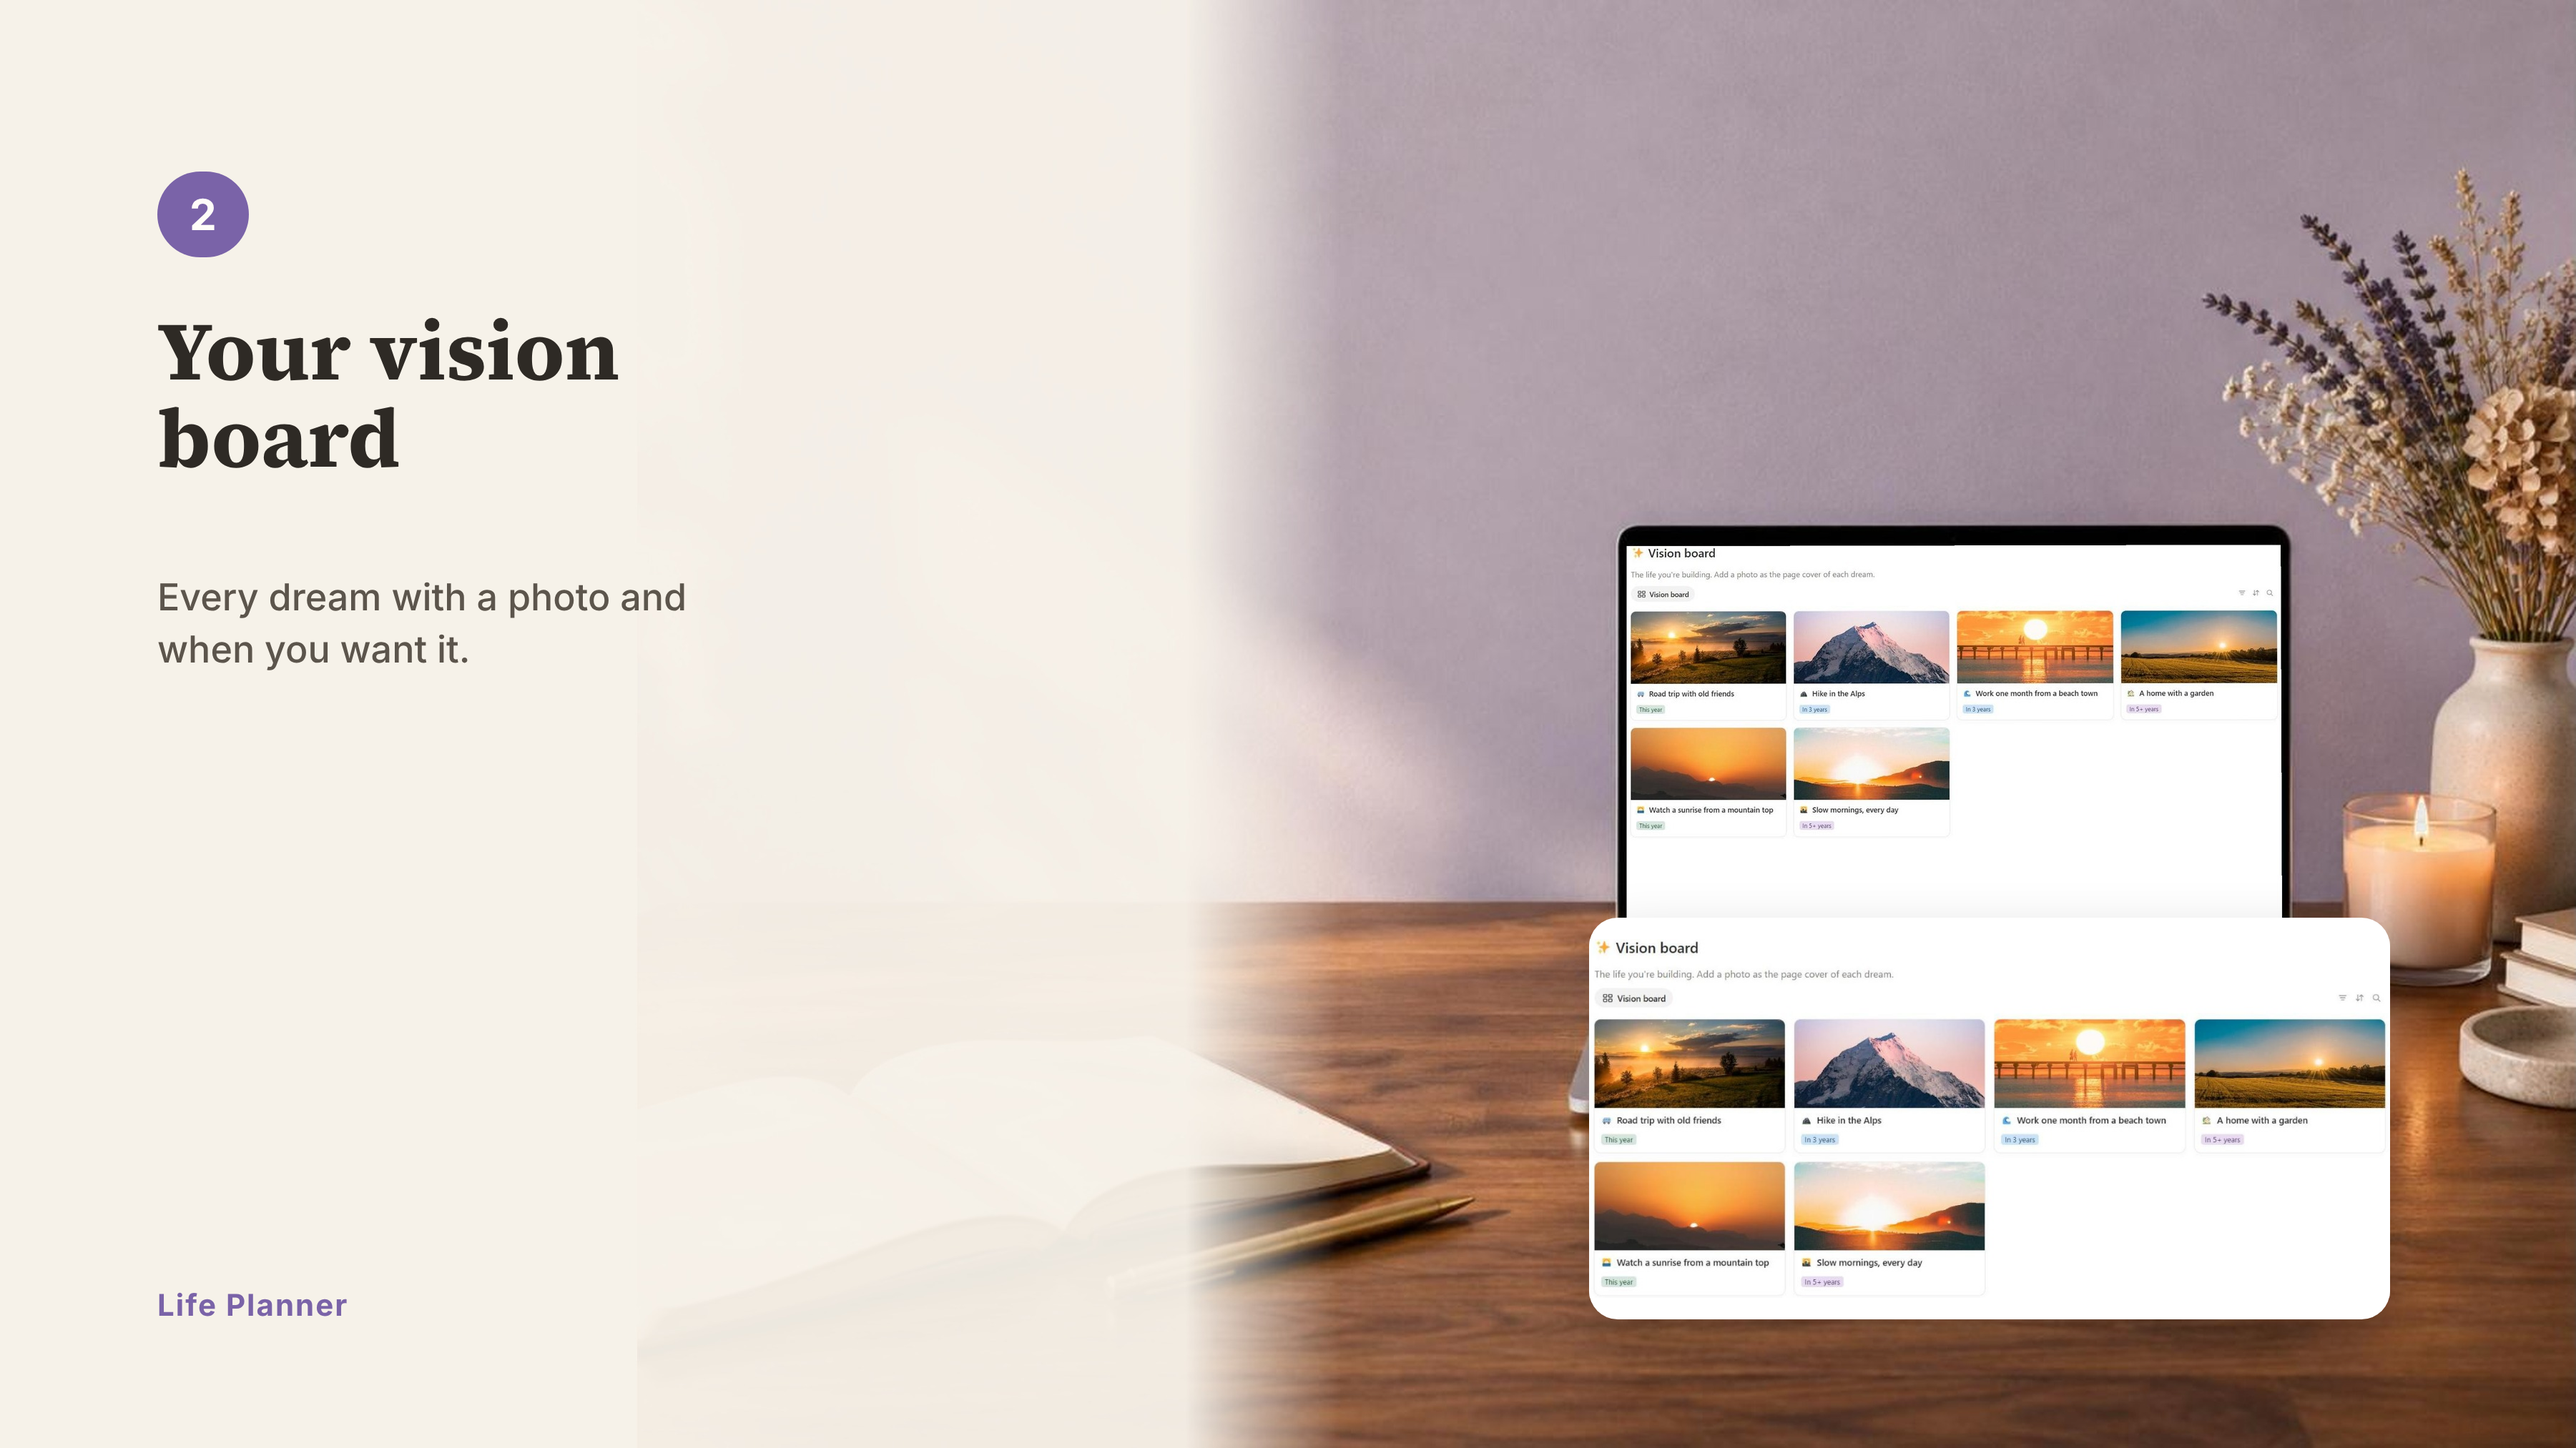
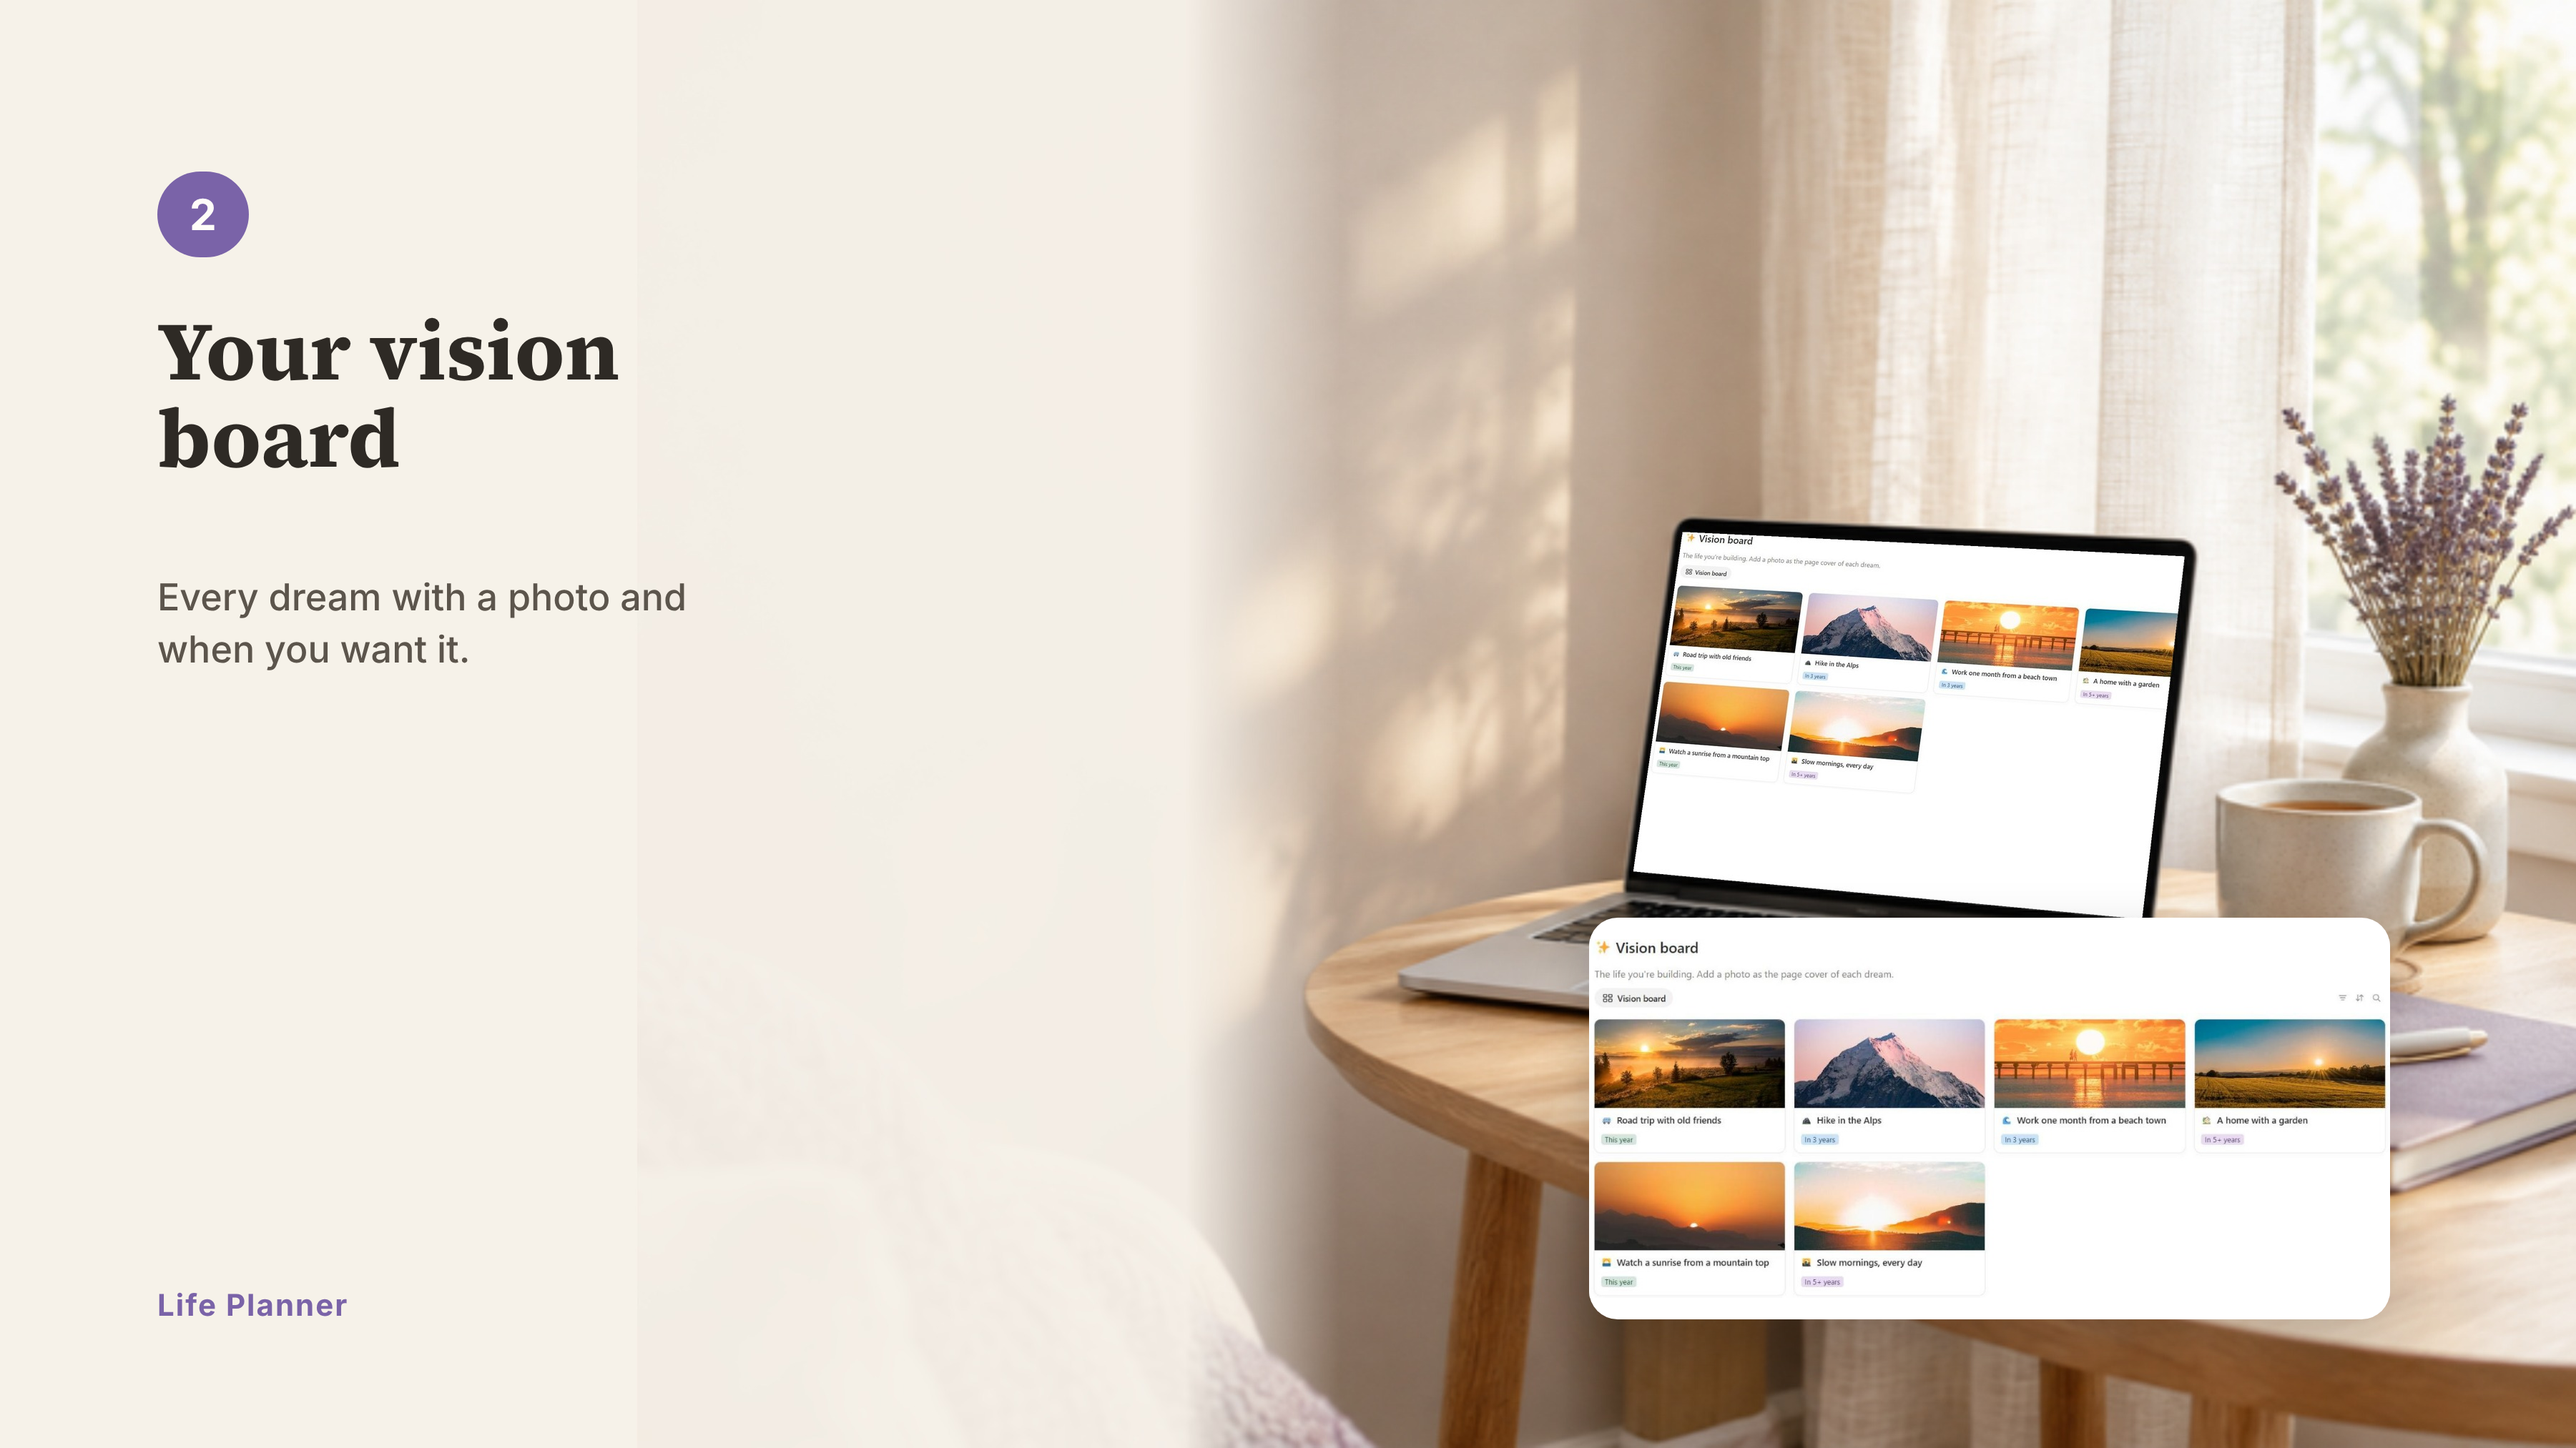
Life: second Canva scene for listing images 2 and 3
Claude-Session: https://claude.ai/code/session_01SESvdWYowsCKTnCuHXDcbL

diff --git a/generator/v3/mini_listing.py b/generator/v3/mini_listing.py
@@ -145,7 +145,7 @@ SCENES = {  # main scene (laptop right), then 4 lifestyle scenes (scene, text si
  'job': ('n-job-a.png', [('n-job-b.png', 'right'), ('n-job-b-m.png', 'left'), ('n-job-a-m.png', 'right'), ('n-job-a.png', 'left')]),
  'meal': ('n-meal-a.png', [('n-meal-b.png', 'right'), ('n-meal-b-m.png', 'left'), ('n-meal-a-m.png', 'right'), ('n-meal-a.png', 'left')]),
  'travel': ('n-travel-a.png', [('n-travel-b.png', 'right'), ('n-travel-b-m.png', 'left'), ('n-travel-a-m.png', 'right'), ('n-travel-a.png', 'left')]),
- 'life': ('n-life-a.png', [('n-life-a-m.png', 'right'), ('n-life-a.png', 'left'), ('n-life-a-m.png', 'right'), ('n-life-a.png', 'left')]),
+ 'life': ('n-life-a.png', [('n-life-b-m.png', 'right'), ('n-life-b.png', 'left'), ('n-life-a-m.png', 'right'), ('n-life-a.png', 'left')]),
 }
 
 
